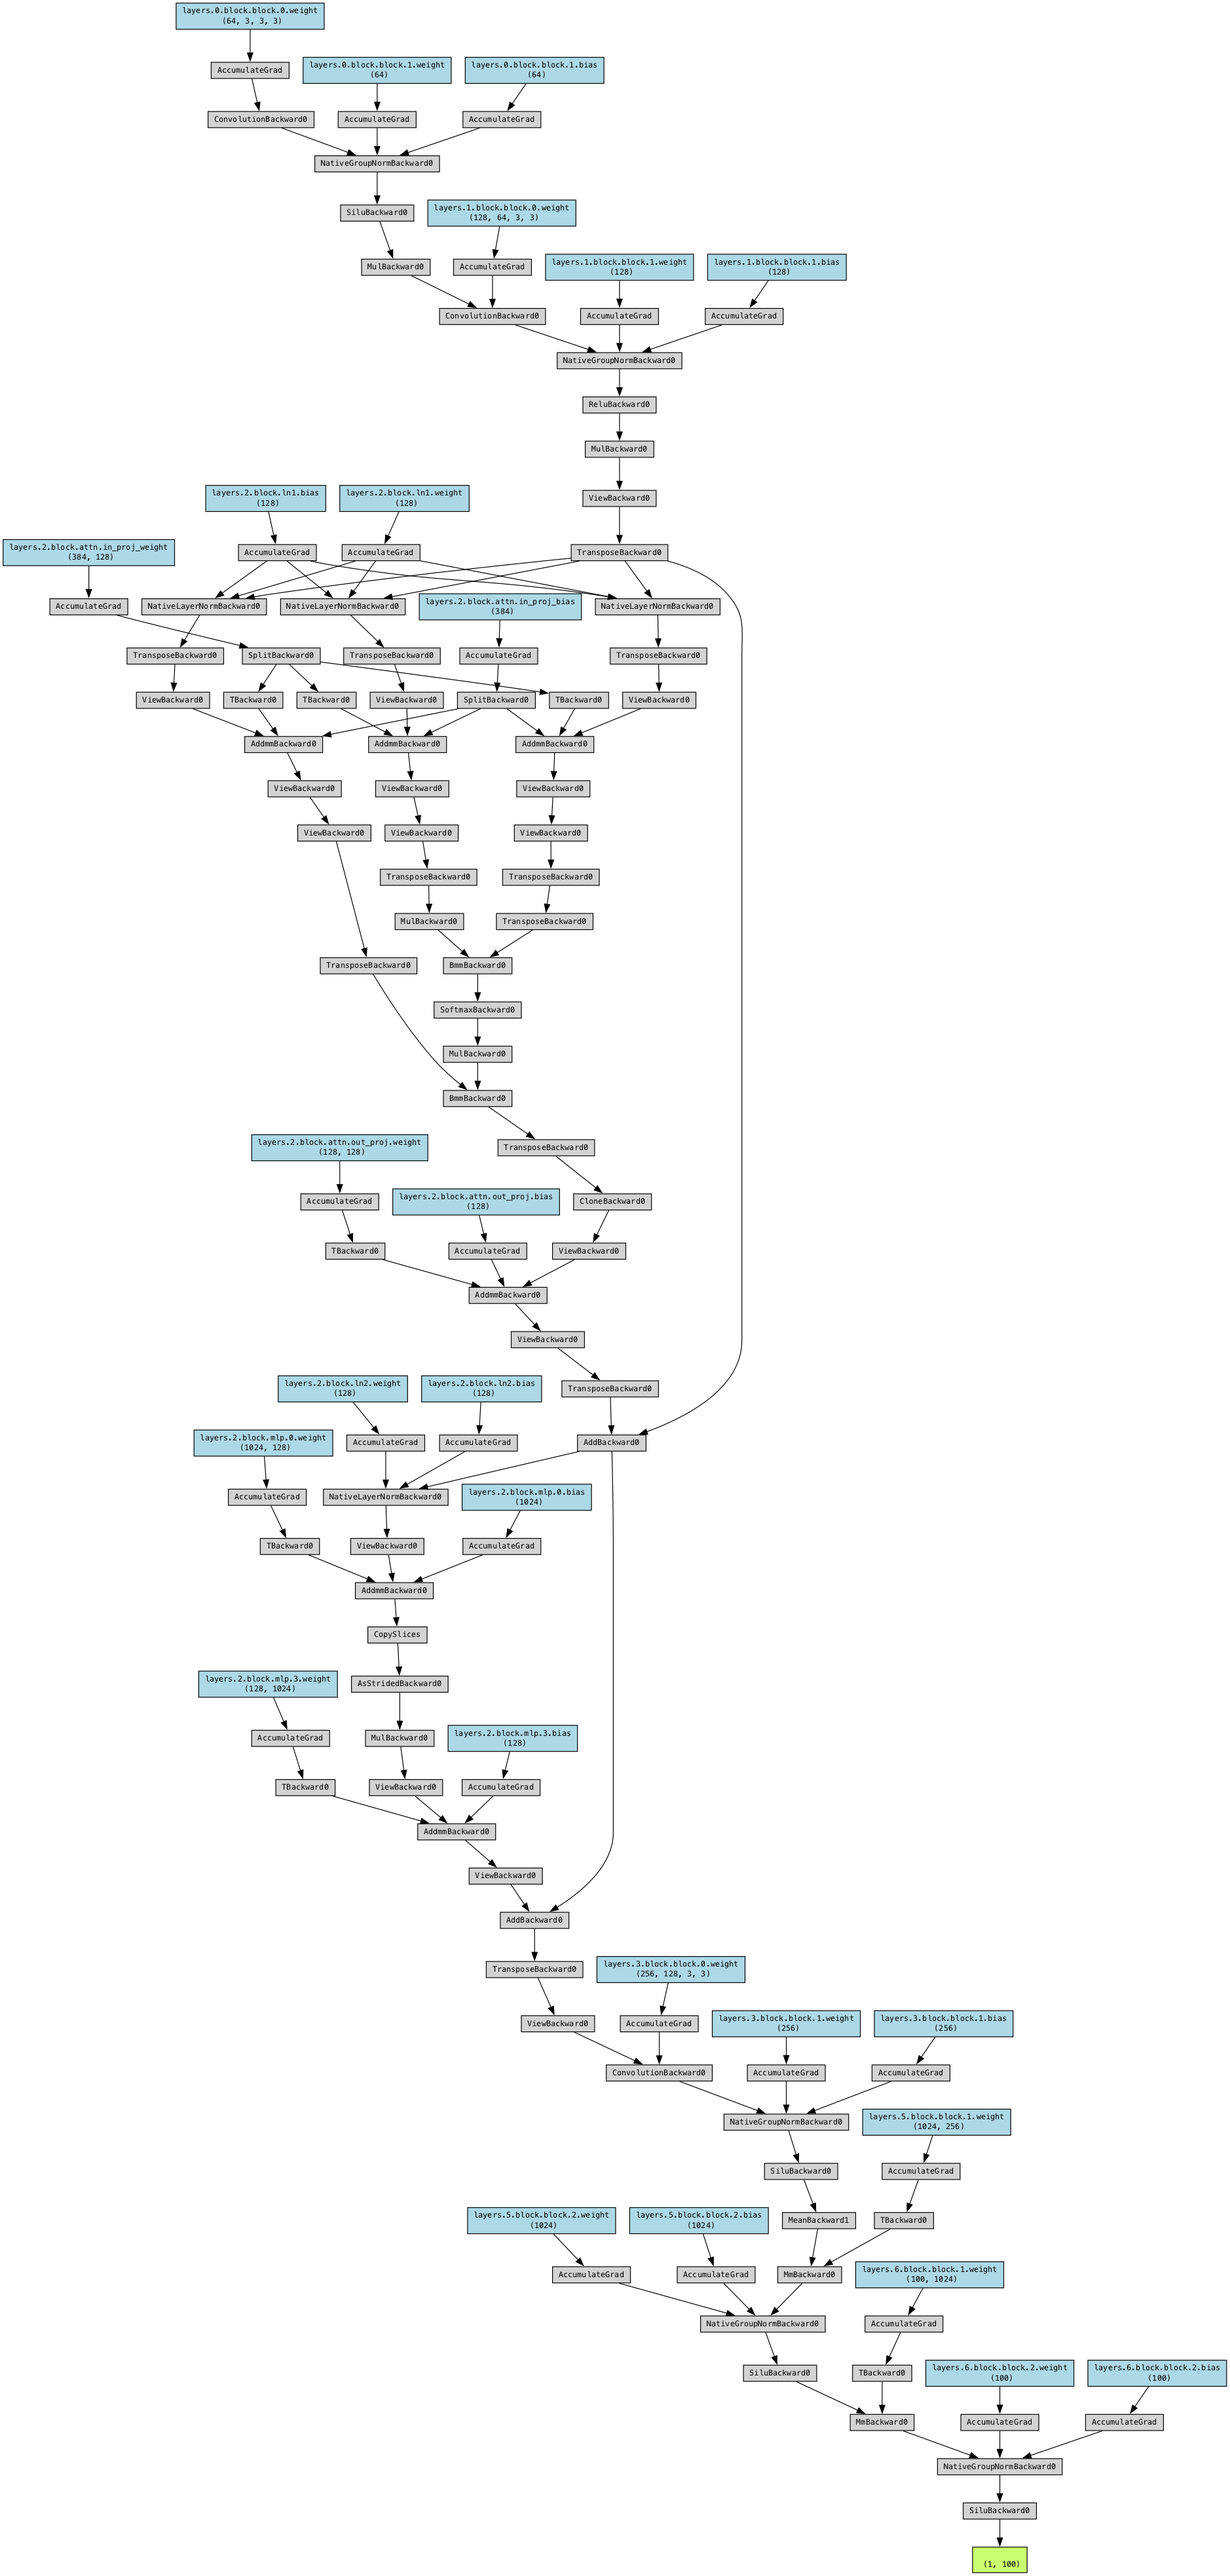
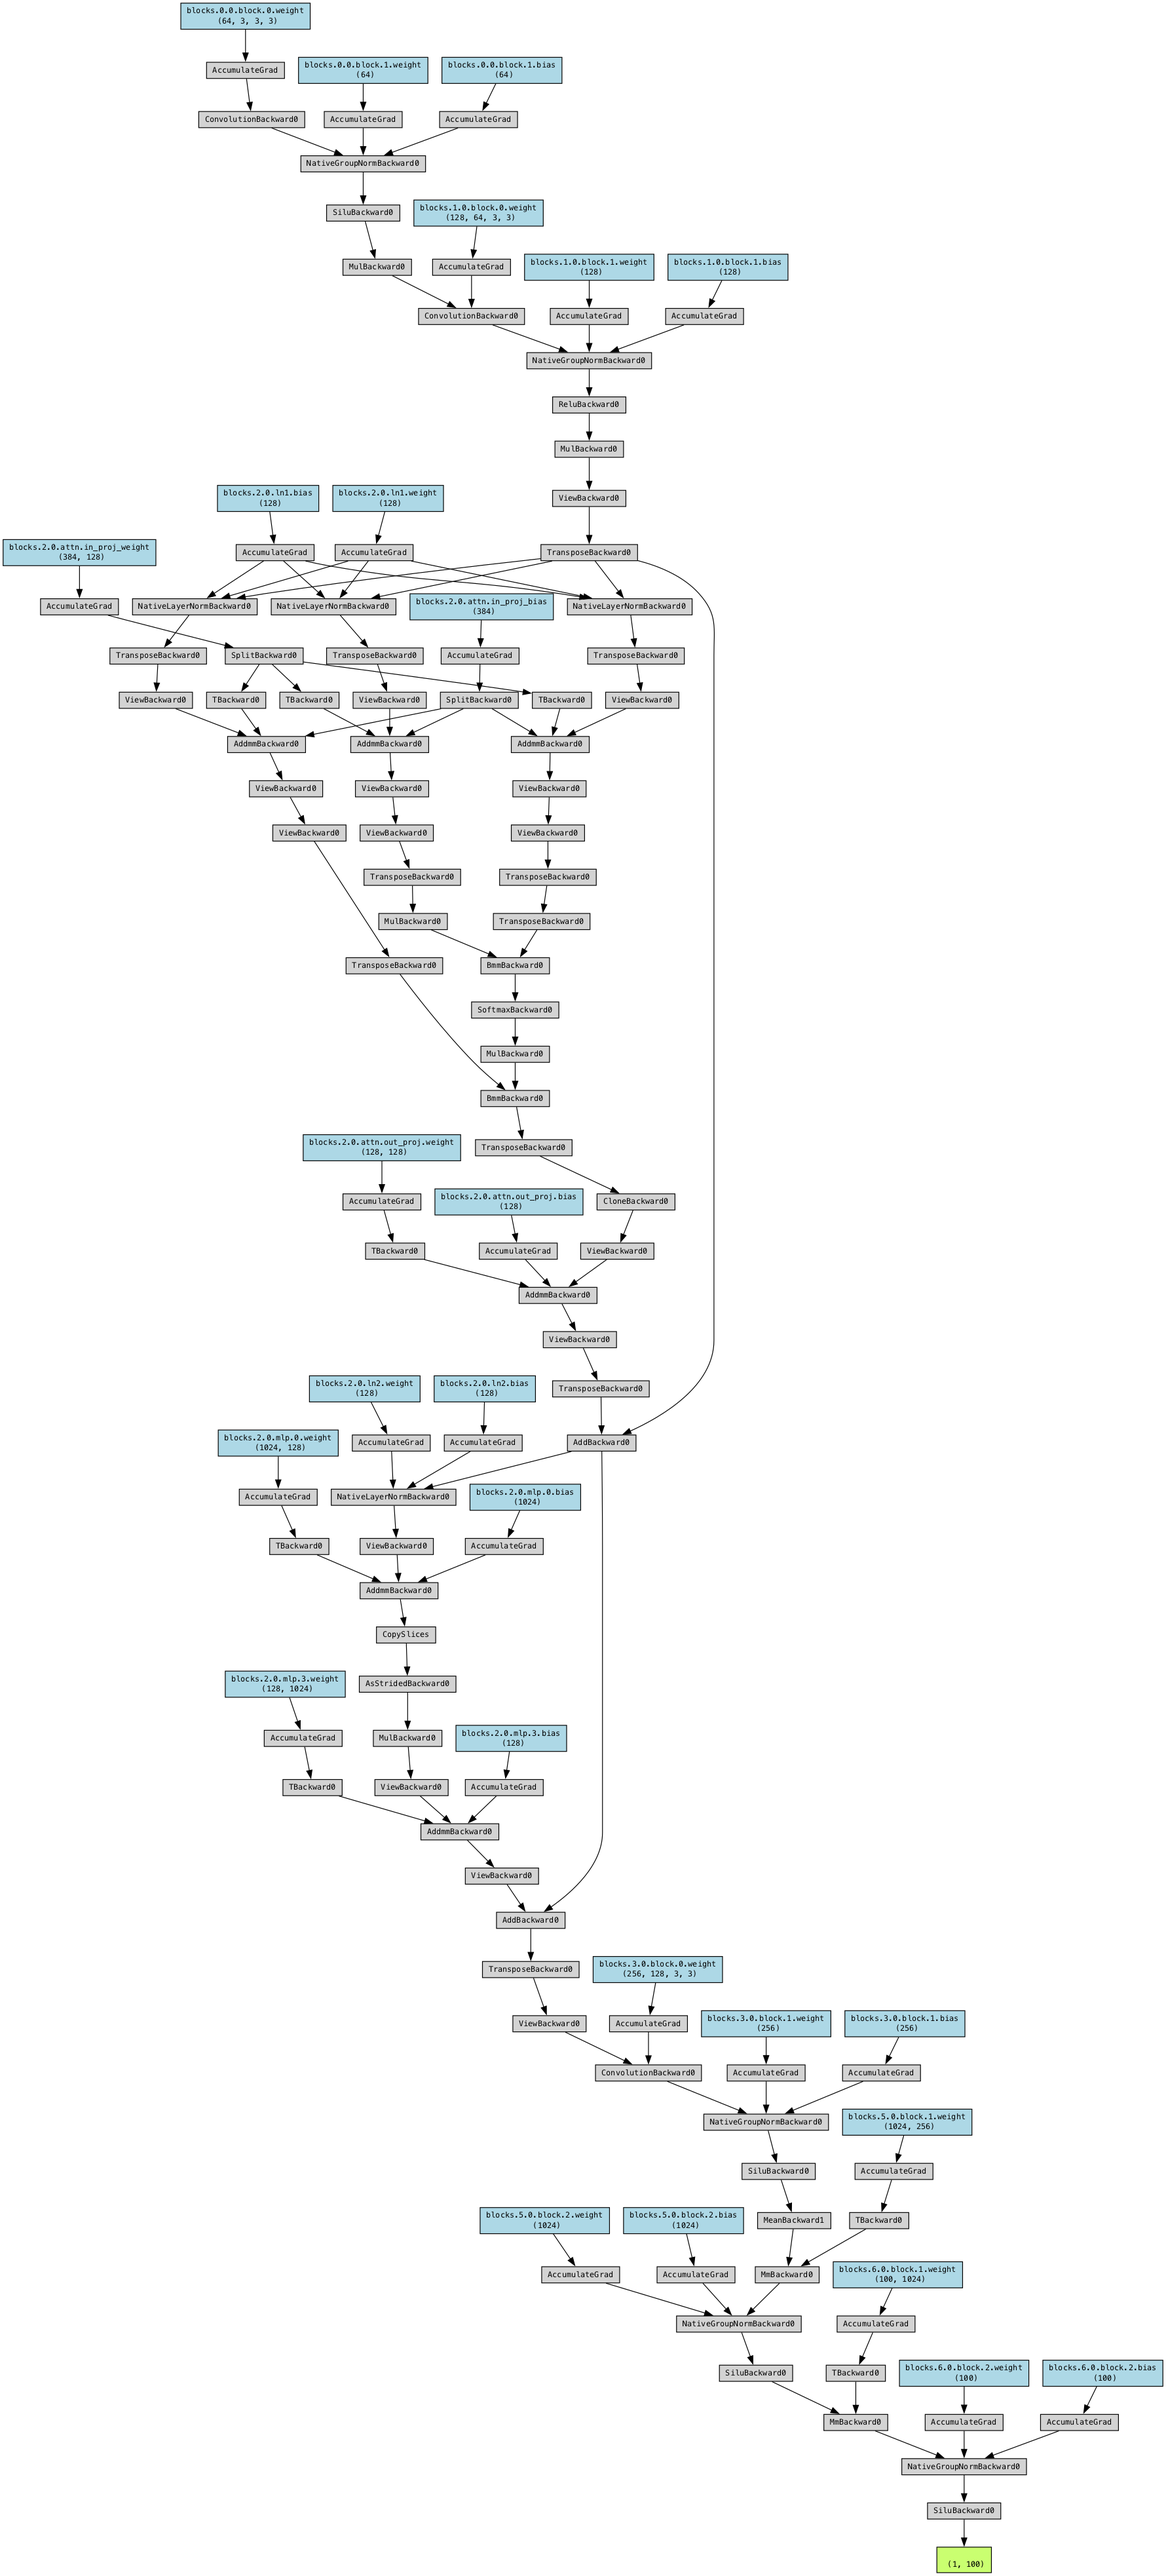
모델 파서 및 레이어 클래스 리팩토링: 블록 생성 로직 개선 및 입력 인덱스 처리 방식 수정

diff --git a/deepzero/core/model_builder.py b/deepzero/core/model_builder.py
@@ -2,94 +2,107 @@ import math
 import yaml
 import torch
 import torch.nn as nn
-from typing import Any, Dict, List
-from .layers import BlockBase
+from typing import Any, Dict, List, Union
+from .layers import BlockBase   # BlockBase.registry 활용 (ConvBlock, …)
 
+# -------------------- 헬퍼 -------------------- #
 def _n_rep(n, dm): return max(round(n * dm), 1)
-
 def _make_divisible(v, d=8): return math.ceil(v / d) * d
-
-class Layer(nn.Module):
-    """from 인덱스의 출력들을 받아 내부 block 호출"""
-    def __init__(self, block: nn.Module, from_idx: int):
-        super().__init__()
-        self.block, self.f = block, from_idx
-    def forward(self, outs: List[torch.Tensor]):
-        return self.block(outs[self.f])
-
-def _resolve(v, cfg):
-    """
-    • v 가 문자열이고 cfg 에 키가 존재하면 cfg 값으로 치환
-    • 그 외에는 그대로 반환
-    """
+def _resolve(v, cfg):        # 문자열 → cfg 치환
     return cfg[v] if isinstance(v, str) and v in cfg else v
 
-def parse_model(cfg: Dict[str, Any]) -> nn.Module:
+
+# ---------------- 모델 파서 ------------------ #
+def parse_model(cfg: Dict[str, Any]) -> "Model":
     gd, gw = cfg["depth_multiple"], cfg["width_multiple"]
     layers_cfg = cfg["layers"]
-    ch: List[int] = [cfg["in_channels"]]
-    layers: List[nn.Module] = []
+
+    ch:  List[int] = [cfg["in_channels"]]   # index 0은 입력
+    blocks:    List[nn.Module] = []        # nn.Module 들
+    from_idxs: List[Union[int, List[int]]] = []  # 각 모듈 입력 인덱스
 
     for (f, n, name, *args) in layers_cfg:
-        # YAML 마지막 값이 dict라면 공통 kwargs로 분리
+        # kwargs 분리
         kw = {}
         if args and isinstance(args[-1], dict):
-            kw = args[-1]
-            args = args[:-1]
-        n = _n_rep(n, gd)
+            kw, args = args[-1], args[:-1]
+
+        n = _n_rep(n, gd)                  # depth scaling
         BlockCls = BlockBase.registry[name]
 
+        # ------ 블록 생성 ------ #
         if name == "ConvBlock":
             c_out, k, s = [_resolve(a, cfg) for a in args]
             c_out = _make_divisible(int(c_out * gw))
-            blocks = [BlockCls.build(ch[f] if j == 0 else c_out,
-                                     c_out, k, s, **kw)
-                      for j in range(n)]
-            ch.append(c_out)
+            seq = nn.Sequential(*[
+                BlockCls.build(ch[f] if j == 0 else c_out,
+                               c_out, k, s, **kw)
+                for j in range(n)
+            ])
+            out_c = c_out
 
         elif name == "LinearBlock":
             out_f = _resolve(args[0], cfg)
-            # positional 두 번째 인자를 act 로 간주 (선택)
-            if len(args) > 1:
+            if len(args) > 1:              # positional 2번째 act 처리
                 kw.setdefault("act", args[1])
-            blocks = [BlockCls.build(ch[f], out_f, **kw) for _ in range(n)]
-            ch.append(out_f)
+            seq = nn.Sequential(*[
+                BlockCls.build(ch[f], out_f, **kw)
+                for _ in range(n)
+            ])
+            out_c = out_f
 
         elif name == "TransformerEncoderBlock":
             dim, heads, mlp = [_resolve(a, cfg) for a in args]
-            blocks = [BlockCls.build(dim, heads, mlp, **kw) for _ in range(n)]
-            ch.append(dim)
+            seq = nn.Sequential(*[
+                BlockCls.build(dim, heads, mlp, **kw)
+                for _ in range(n)
+            ])
+            out_c = dim
 
-        else:  # GlobalAvgPool 등
-            blocks = [BlockCls.build(ch[f], *args, **kw) for _ in range(n)]
-            ch.append(ch[f])
+        else:                              # GlobalAvgPool 등
+            seq = nn.Sequential(*[
+                BlockCls.build(ch[f], *args, **kw)
+                for _ in range(n)
+            ])
+            out_c = ch[f]                  # 채널 유지
 
-        seq = nn.Sequential(*blocks) if len(blocks) > 1 else blocks[0]
-        layers.append(Layer(seq, f))
+        # ----------------------- #
+        blocks.append(seq)
+        from_idxs.append(f)
+        ch.append(out_c)
 
-    return Model(layers)
+    return Model(blocks, from_idxs)
 
 
-# -----------------------------------------------------------------
-# Model wrapper for tensor-list propagation
-# -----------------------------------------------------------------
+# ---------------- 모델 래퍼 ------------------ #
 class Model(nn.Module):
-    """Wraps the parsed layer list and handles tensor‑list propagation."""
-    def __init__(self, layers: List[nn.Module]):
+    """
+    • self.blocks   : nn.ModuleList (ConvBlock / LinearBlock / ...)
+    • self.from_idxs: 각 블록이 참조할 입력 인덱스(단일 int 또는 list → concat)
+    """
+    def __init__(self,
+                 blocks: List[nn.Module],
+                 from_idxs: List[Union[int, List[int]]]):
         super().__init__()
-        self.layers = nn.ModuleList(layers)
+        self.blocks = nn.ModuleList(blocks)
+        self.from_idxs = from_idxs
 
     def forward(self, x: torch.Tensor):
-        outs: List[torch.Tensor] = [x]  # index 0 corresponds to input
-        for layer in self.layers:
-            y = layer(outs)
-            outs.append(y)
-        return outs[-1]  # final output
+        outs: List[torch.Tensor] = [x]          # 0번 = 원 입력
+        for block, f in zip(self.blocks, self.from_idxs):
+            if isinstance(f, int):
+                x_in = outs[f if f != -1 else -1]
+            else:                               # concat
+                x_in = torch.cat([outs[j] for j in f], dim=1)
+            outs.append(block(x_in))
+        return outs[-1]
 
+
+# ---------------- YAML 빌더 ------------------ #
 def build_model_from_yaml(path: str, in_channels: int = 3) -> nn.Module:
     with open(path, "r", encoding="utf-8") as f:
         cfg = yaml.safe_load(f)
     cfg["in_channels"] = in_channels
     model = parse_model(cfg)
-    model.yaml = cfg
+    model.yaml = cfg          # 원본 YAML 보존 (선택)
     return model

diff --git a/deepzero/core/layers.py b/deepzero/core/layers.py
@@ -4,10 +4,8 @@
   를 받아들일 수 있게 수정
 • 필요 없는 인자는 무시해도 되지만 에러 없이 동작해야 함
 """
-
 import math
 from typing import Any, Dict, List, Type
-
 import torch.nn as nn
 
 # ---------------------------------------------------------------------- #
